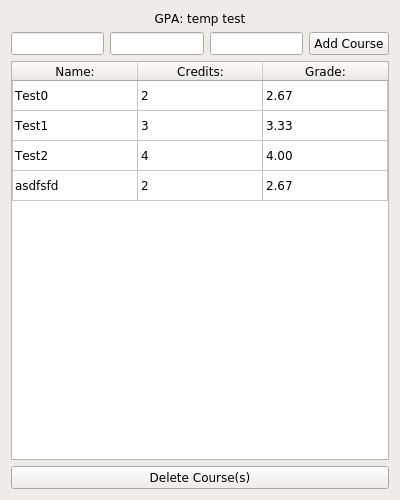
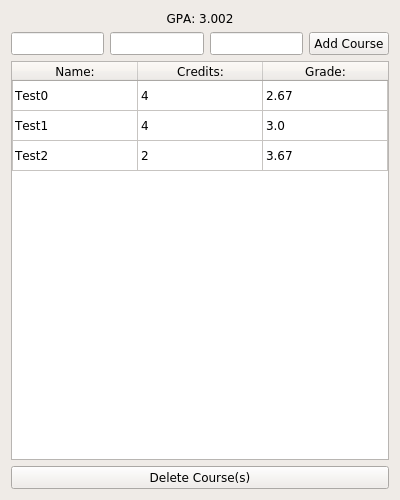
Added raise error to gpa_data.py, and fixed adding of courses

diff --git a/gpa_calculator.py b/gpa_calculator.py
@@ -4,7 +4,7 @@
     https://nook.marlboro.edu/public/offices/registrar/gpa
 
 """
-VERSION = "v0.5 (alpha)"
+VERSION = "v0.7 (alpha)"
 WIDTH, HEIGHT = 400, 500
 
 # To set PID and Task Manager label/name
@@ -27,8 +27,9 @@ class Win(QWidget):
         self.padd = 4
         self.res = (WIDTH, HEIGHT)
 
-        # TODO:
-        # Create instance of GPA_Data here
+        # For storage and calculation of courses, grades,
+        # credits, and the resulting GPA
+        self.gpa_data = GPA_Data()
 
         self.initUI()
 
@@ -36,15 +37,8 @@ class Win(QWidget):
         self.setWindowTitle(self.title)
         self.setGeometry(self.padd, self.padd, self.res[0], self.res[1])
 
-        # # Grid Box Layout
-        # # http://zetcode.com/gui/pyqt5/layout/
-        # glayout = QGridLayout()
-        # self.setLayout(glayout)
-
         # # Vertical Box Layout
         vlayout = QVBoxLayout()
-        # hlayout = QHBoxLayout()
-        # vlayout.addLayout(hlayout)
         aclayout = QHBoxLayout() # Horizontal layout for add course
                                  # text entry and buttons
         llayout = QHBoxLayout() # Horizontal layout for label
@@ -52,23 +46,45 @@ class Win(QWidget):
         vlayout.addLayout(aclayout)
         self.setLayout(vlayout)
 
+        # Add Course Text Box Labels
+
         # Add Course Text Box Entries
         self.add_course_name_textbox = QLineEdit(self)
+        self.add_course_name_textbox_label = QLabel("Course Title:")
+        self.add_course_name_textbox_layout = QVBoxLayout()
+        self.add_course_name_textbox_layout.addWidget(self.add_course_name_textbox_label)
+        self.add_course_name_textbox_layout.addWidget(self.add_course_name_textbox)
+        # self.add_course_name_textbox.setText("Course Title")
         self.add_course_credits_textbox = QLineEdit(self)
+        self.add_course_credits_textbox_label = QLabel("Credits:")
+        self.add_course_credits_textbox_layout = QVBoxLayout()
+        self.add_course_credits_textbox_layout.addWidget(self.add_course_credits_textbox_label)
+        self.add_course_credits_textbox_layout.addWidget(self.add_course_credits_textbox)
+        # self.add_course_credits_textbox.setText("Credits")
         self.add_course_grade_textbox = QLineEdit(self)
+        self.add_course_grade_textbox_label = QLabel("Grade:")
+        self.add_course_grade_textbox_layout = QVBoxLayout()
+        self.add_course_grade_textbox_layout.addWidget(self.add_course_grade_textbox_label)
+        self.add_course_grade_textbox_layout.addWidget(self.add_course_grade_textbox)
+        # self.add_course_grade_textbox.setText("Grade")
 
         # Add Course Button
-        add_course_button = QPushButton("Add Course", self)
-        add_course_button.setToolTip("Press to add a course to calculate.")
-        # add_course_button.move(HEIGHT//2, WIDTH//2)
-        add_course_button.clicked.connect(self.clicked_add_course_button)
-        # print(dir(add_course_button))
+        self.add_course_button = QPushButton("Add Course", self)
+        self.add_course_button_label = QLabel("")
+        self.add_course_button_layout = QVBoxLayout()
+        self.add_course_button_layout.addWidget(self.add_course_button_label)
+        self.add_course_button_layout.addWidget(self.add_course_button)
+        self.add_course_button.setAutoDefault(True)
+        self.add_course_button.setToolTip("Press to add a course to calculate.")
+        # self.add_course_button.move(HEIGHT//2, WIDTH//2)
+        self.add_course_button.clicked.connect(self.clicked_add_course_button)
+        # print(dir(self.add_course_button))
 
         # # Remove Course Button
-        del_course_button = QPushButton("Delete Course(s)", self)
-        del_course_button.setToolTip("Press to remove the checked courses.")
-        # del_course_button.move(HEIGHT//3, WIDTH//3)
-        del_course_button.clicked.connect(self.clicked_del_course_button)
+        self.del_course_button = QPushButton("Delete Course(s)", self)
+        self.del_course_button.setToolTip("Press to remove the checked courses.")
+        # self.del_course_button.move(HEIGHT//3, WIDTH//3)
+        self.del_course_button.clicked.connect(self.clicked_del_course_button)
 
         # TODO:
         # Enable adding and deleting courses via enter key on keyboard,
@@ -94,8 +110,9 @@ class Win(QWidget):
         # print(dir(self.courses_table_view))
         self.courses_table = QTableWidget()
         self.courses_table.setColumnCount(3)
-        self.courses_table.setHorizontalHeaderLabels(["Name:", "Credits:", "Grade:"])
+        # self.courses_table.setHorizontalHeaderLabels(["Name:", "Credits:", "Grade:"])
         self.courses_table.horizontalHeader().setSectionResizeMode(QHeaderView.Stretch)
+        self.courses_table.horizontalHeader().setVisible(False)
         self.courses_table.verticalHeader().setVisible(False)
         vlayout.addWidget(self.courses_table)
 
@@ -103,77 +120,115 @@ class Win(QWidget):
         # Create method to update if data is updated
 
         # Test Courses:
-        row_count = self.courses_table.rowCount()
-        self.courses_table.insertRow(row_count)
-        self.courses_table.setItem(row_count, 0, QTableWidgetItem("Test0"))
-        self.courses_table.setItem(row_count, 1, QTableWidgetItem("2"))
-        self.courses_table.setItem(row_count, 2, QTableWidgetItem("2.67"))
+        # row_count = self.courses_table.rowCount()
+        # self.courses_table.insertRow(row_count)
+        # self.courses_table.setItem(row_count, 0, QTableWidgetItem("Test0"))
+        # self.courses_table.setItem(row_count, 1, QTableWidgetItem("2"))
+        # self.courses_table.setItem(row_count, 2, QTableWidgetItem("2.67"))
 
-        row_count = self.courses_table.rowCount()
-        self.courses_table.insertRow(row_count)
-        self.courses_table.setItem(row_count, 0, QTableWidgetItem("Test1"))
-        self.courses_table.setItem(row_count, 1, QTableWidgetItem("3"))
-        self.courses_table.setItem(row_count, 2, QTableWidgetItem("3.33"))
+        # row_count = self.courses_table.rowCount()
+        # self.courses_table.insertRow(row_count)
+        # self.courses_table.setItem(row_count, 0, QTableWidgetItem("Test1"))
+        # self.courses_table.setItem(row_count, 1, QTableWidgetItem("3"))
+        # self.courses_table.setItem(row_count, 2, QTableWidgetItem("3.33"))
 
-        row_count = self.courses_table.rowCount()
-        self.courses_table.insertRow(row_count)
-        self.courses_table.setItem(row_count, 0, QTableWidgetItem("Test2"))
-        self.courses_table.setItem(row_count, 1, QTableWidgetItem("4"))
-        self.courses_table.setItem(row_count, 2, QTableWidgetItem("4.00"))
+        # row_count = self.courses_table.rowCount()
+        # self.courses_table.insertRow(row_count)
+        # self.courses_table.setItem(row_count, 0, QTableWidgetItem("Test2"))
+        # self.courses_table.setItem(row_count, 1, QTableWidgetItem("4"))
+        # self.courses_table.setItem(row_count, 2, QTableWidgetItem("4.00"))
 
-        # TODO:
-        # Create labals for items
+        aclayout.addLayout(self.add_course_name_textbox_layout)
+        aclayout.addLayout(self.add_course_credits_textbox_layout)
+        aclayout.addLayout(self.add_course_grade_textbox_layout)
+        aclayout.addLayout(self.add_course_button_layout)
 
-        aclayout.addWidget(self.add_course_name_textbox)
-        aclayout.addWidget(self.add_course_credits_textbox)
-        aclayout.addWidget(self.add_course_grade_textbox)
-        aclayout.addWidget(add_course_button)
+        vlayout.addWidget(self.del_course_button)
 
-        vlayout.addWidget(del_course_button)
-
+        self.update()
         self.show()
 
-    def update_gpa_label(self):
-        self.gpa_label.setText("GPA: {}".format("temp test"))
+    def update(self):
+        self.gpa_label.setText("GPA: {:.2f}".format(self.gpa_data.gpa))
+
+        # TODO:
+        # Create method to update table if data is updated
 
     @pyqtSlot()
     def clicked_add_course_button(self):
+        # try:
+        #     new_data = {"Name": str(self.add_course_name_textbox.text()),
+        #                 "Credits": int(self.add_course_credits_textbox.text()),
+        #                 "Grade": float(self.add_course_grade_textbox.text())}
+        # except ValueError:
+        #     return
+
+        # row_count = self.courses_table.rowCount()
+        # self.courses_table.insertRow(row_count)
+
+        # self.courses_table.setItem(row_count, 0, QTableWidgetItem(new_data["Name"]))
+        # self.courses_table.setItem(row_count, 1, QTableWidgetItem(str(new_data["Credits"])))
+        # self.courses_table.setItem(row_count, 2, QTableWidgetItem(str(new_data["Grade"])))
+
+        # # TODO:
+        # # Add Course to data structure for storing data on courses
+        # # and calculating GPA
+
+        # self.gpa_data.add_course(new_data["Name"], new_data["Credits"], new_data["Grade"])
+
+        # # TODO:
+        # # Move cursor to self.add_course_name_textbox after every entry
+
+        # # TODO:
+        # # Set GPA label to the current GPA value
+
+        # self.add_course_name_textbox.setText("")
+        # self.add_course_credits_textbox.setText("")
+        # self.add_course_grade_textbox.setText("")
         try:
-            new_data = {"Name": str(self.add_course_name_textbox.text()),
-                        "Credits": int(self.add_course_credits_textbox.text()),
-                        "Grade": float(self.add_course_grade_textbox.text())}
+            try:
+                self.gpa_data.add_course(self.add_course_name_textbox.text(),
+                                         int(self.add_course_credits_textbox.text()),
+                                         self.add_course_grade_textbox.text())
+            except TypeError:
+                self.gpa_data.add_course(self.add_course_name_textbox.text(),
+                                         int(self.add_course_credits_textbox.text()),
+                                         float(self.add_course_grade_textbox.text()))
         except ValueError:
             return
 
         row_count = self.courses_table.rowCount()
         self.courses_table.insertRow(row_count)
 
-        self.courses_table.setItem(row_count, 0, QTableWidgetItem(new_data["Name"]))
-        self.courses_table.setItem(row_count, 1, QTableWidgetItem(str(new_data["Credits"])))
-        self.courses_table.setItem(row_count, 2, QTableWidgetItem(str(new_data["Grade"])))
+        self.courses_table.setItem(row_count,
+                                   0,
+                                   QTableWidgetItem(self.add_course_name_textbox.text()))
 
-        # TODO:
-        # Add Course to data structure for storing data on courses
-        # and calculating GPA
+        self.courses_table.setItem(row_count,
+                                   1,
+                                   QTableWidgetItem(self.add_course_credits_textbox.text()))
 
-        # TODO:
-        # Move cursor to self.add_course_name_textbox after every entry
-
-        # TODO:
-        # Set GPA label to the current GPA value
+        self.courses_table.setItem(row_count,
+                                   2,
+                                   QTableWidgetItem(self.add_course_grade_textbox.text().upper()))
 
         self.add_course_name_textbox.setText("")
         self.add_course_credits_textbox.setText("")
         self.add_course_grade_textbox.setText("")
 
+        print(self.gpa_data)
+
         # Updates
-        self.update_gpa_label()
+        self.update()
 
     # https://stackoverflow.com/questions/14588479/retrieving-cell-data-from-a-selected-cell-in-a-tablewidget
     @pyqtSlot()
     def clicked_del_course_button(self):
         index = self.courses_table.currentRow()
+        item = self.courses_table.item(index, 0).text()
+        self.gpa_data.del_course(item)
         self.courses_table.removeRow(index)
+
 
         # TODO:
         # Multiple selection
@@ -182,7 +237,7 @@ class Win(QWidget):
         # Remove course from the GPA_Data data structure
 
         # Updates
-        self.update_gpa_label()
+        self.update()
 
 def main():
     gui = Interface()

diff --git a/gpa_data.py b/gpa_data.py
@@ -8,6 +8,7 @@ class GPA_Data:
     def __init__(self):
         self.quality_points = 0
         self.credits = 0
+        self.blank_credits = 0
 
         # Numerical equivalents for grades
         # TODO:
@@ -53,6 +54,8 @@ class GPA_Data:
             self.courses[name] = {"Credits": credits,
                                   "Grade": grade,
                                   "Quality Points": qp}
+        if name not in self.courses:
+            raise TypeError
 
         self.update()
 
@@ -65,17 +68,17 @@ class GPA_Data:
         self.update()
 
     def update(self):
-        self.credits, self.quality_points = 0, 0
+        self.gpa, self.credits, self.blank_credits, self.quality_points = 0, 0, 0, 0
 
         for key, val in self.courses.items():
             for x in val:
-                if val[x] != None:
-                    # print(x, val[x])
+                if val["Grade"] != None and val[x] != None:
                     if x == "Credits":
                         self.credits += val[x]
-
                     if x == "Quality Points":
                         self.quality_points += val[x]
+                if x == "Grade" and val["Grade"] == None:
+                    self.blank_credits += val["Credits"]
 
         try:
             self.gpa = self.quality_points / self.credits
@@ -88,71 +91,3 @@ class GPA_Data:
                 pass
         except ZeroDivisionError:
             pass
-
-def main():
-    # Test so that only valid grades and numerical grades
-    # are added to the data structure
-    gpa_data = GPA_Data()
-    gpa_data.add_course("Test Grade: A", 1, "A")
-    gpa_data.add_course("Test Grade: B", 2, "B")
-    gpa_data.add_course("Test Grade: C", 3, "C")
-    gpa_data.add_course("Test Grade: 1.0", 3, 1.00)
-    gpa_data.add_course("Test Grade: 2", 3, 2)
-    gpa_data.add_course("Test Grade: 3.33", 3, 3.33)
-    gpa_data.add_course("Test Grade: foo", 3, "foo")
-    gpa_data.add_course("Test Grade: bar", 3, "bar")
-    gpa_data.add_course("Test Grade: I", 3, "I")
-    gpa_data.add_course("Test Grade: P", 3, "P")
-
-    print("GPA: {}".format(gpa_data.gpa))
-    print("QP : {}".format(gpa_data.quality_points))
-    print("C  : {}".format(gpa_data.credits))
-    for k, v in gpa_data.courses.items():
-        print(k, v)
-
-    # Test so that del course works and that
-    # empty course list evaluates to 0
-    gpa_data.del_course("Test Grade: A")
-    gpa_data.del_course("Test Grade: B")
-    gpa_data.del_course("Test Grade: C")
-    gpa_data.del_course("Test Grade: 1.0")
-    gpa_data.del_course("Test Grade: 2")
-    gpa_data.del_course("Test Grade: 3.33")
-    gpa_data.del_course("Test Grade: foo")
-    gpa_data.del_course("Test Grade: bar")
-    gpa_data.del_course("Test Grade: I")
-    gpa_data.del_course("Test Grade: P")
-
-    print("GPA: {}".format(gpa_data.gpa))
-    print("QP : {}".format(gpa_data.quality_points))
-    print("C  : {}".format(gpa_data.credits))
-    if gpa_data.courses:
-        for k, v in gpa_data.courses.items():
-            print(k, v)
-    elif not gpa_data.courses:
-        print("{}")
-
-    # Final test to confirm GPA was calculated correctly
-    from random import randint as ri
-    gpa_data.add_course("Test0 Random 3.0 Grade Course:", ri(1, 4), 3.0)
-    gpa_data.add_course("Test1 Random 3.0 Grade Course:", ri(1, 4), 3.0)
-    gpa_data.add_course("Test2 Random 3.0 Grade Course:", ri(1, 4), 3.0)
-    gpa_data.add_course("Test3 Random 3.0 Grade Course:", ri(1, 4), 3.0)
-    gpa_data.add_course("Test4 Random 3.0 Grade Course:", ri(1, 4), 3.0)
-    gpa_data.add_course("Test5 Random 3.0 Grade Course:", ri(1, 4), 3.0)
-    gpa_data.add_course("Test6 Random 3.0 Grade Course:", ri(1, 4), 3.0)
-    gpa_data.add_course("Test7 Random 3.0 Grade Course:", ri(1, 4), 3.0)
-    gpa_data.add_course("Test8 Random 3.0 Grade Course:", ri(1, 4), 3.0)
-    gpa_data.add_course("Test9 Random 3.0 Grade Course:", ri(1, 4), 3.0)
-
-    print("GPA: {}".format(gpa_data.gpa))
-    print("QP : {}".format(gpa_data.quality_points))
-    print("C  : {}".format(gpa_data.credits))
-    if gpa_data.courses:
-        for k, v in gpa_data.courses.items():
-            print(k, v)
-    elif not gpa_data.courses:
-        print("{}")
-
-if __name__ == "__main__":
-    main()
